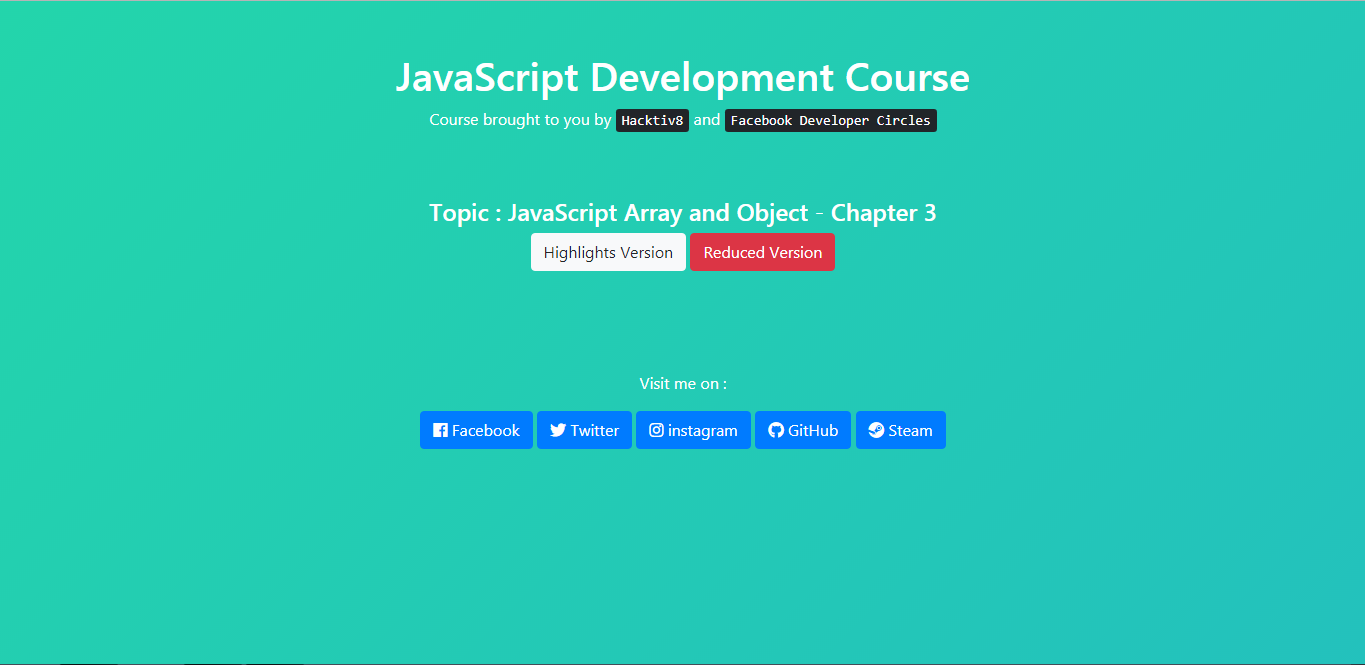
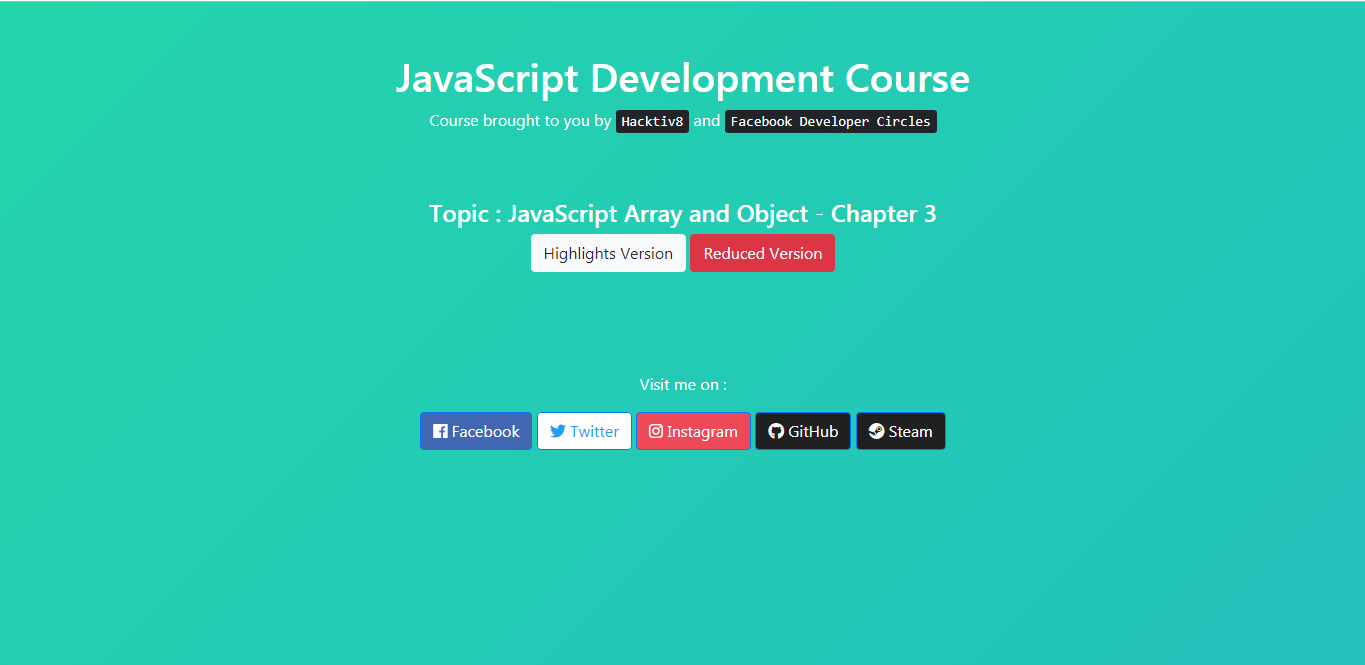
Finished

diff --git a/index.html b/index.html
@@ -54,7 +54,7 @@
         <a href="https://www.twitter.com/FakhriRizhaA" class="btn btn-twitter btn-primary"><i class="fab fa-twitter"></i>
           Twitter</a>
         <a href="https://www.instagram.com/fakhririzha" class="btn btn-instagram btn-primary"><i class="fab fa-instagram"></i>
-          instagram</a>
+          Instagram</a>
         <a href="https://www.github.com/user/fakhririzha" class="btn btn-github btn-primary"><i class="fab fa-github"></i>
           GitHub</a>
         <a href="https://steamcommunity.com/id/fakhririzha" class="btn btn-steam btn-primary"><i class="fab fa-steam"></i>
@@ -67,6 +67,5 @@
 <!-- SCRIPT TAG -->
 <script src="js/jquery.min.js"></script>
 <script src="js/bootstrap.bundle.min.js"></script>
-<script src="js/app.js"></script>
 
 </html>

diff --git a/css/app.css b/css/app.css
@@ -79,3 +79,50 @@ pre {
 .filtered-data {
   background-color: rgba(255, 149, 149, 0.966);
 }
+
+/* BUTTON STYLE FOR FRONT PAGE */
+
+.btn-facebook {
+  background-color: #4267B2;
+}
+
+.btn-facebook:hover {
+  background-color: #3B5DA0;
+}
+
+.btn-twitter {
+  background-color: #FFFFFF;
+  color: #1DA1F2;
+}
+
+.btn-twitter:hover {
+  background-color: #DDDDDE;
+  color: #1DA1F2;
+}
+
+.btn-instagram {
+  background-color: #ED4956;
+}
+
+.btn-instagram:hover {
+  background-color: #DD414E;
+  color: #FFFFFF;
+}
+
+.btn-github {
+  background-color: #202020;
+}
+
+.btn-github:hover {
+  background-color: #000000;
+  color: #FFFFFF;
+}
+
+.btn-steam {
+  background-color: #202020;
+}
+
+.btn-steam:hover {
+  background-color: #000000;
+  color: #FFFFFF;
+}

diff --git a/README.md b/README.md
@@ -264,7 +264,7 @@ Front Page
 
 
 Hightlights Version
-![Preview](https://raw.githubusercontent.com/fakhririzha/exercise3/master/img/display.png)
+![Preview](https://raw.githubusercontent.com/fakhririzha/exercise3/master/img/highlights.png)
 
 Reduced Version
-![Preview](https://raw.githubusercontent.com/fakhririzha/exercise3/master/img/display.png)
+![Preview](https://raw.githubusercontent.com/fakhririzha/exercise3/master/img/reduced.png)
